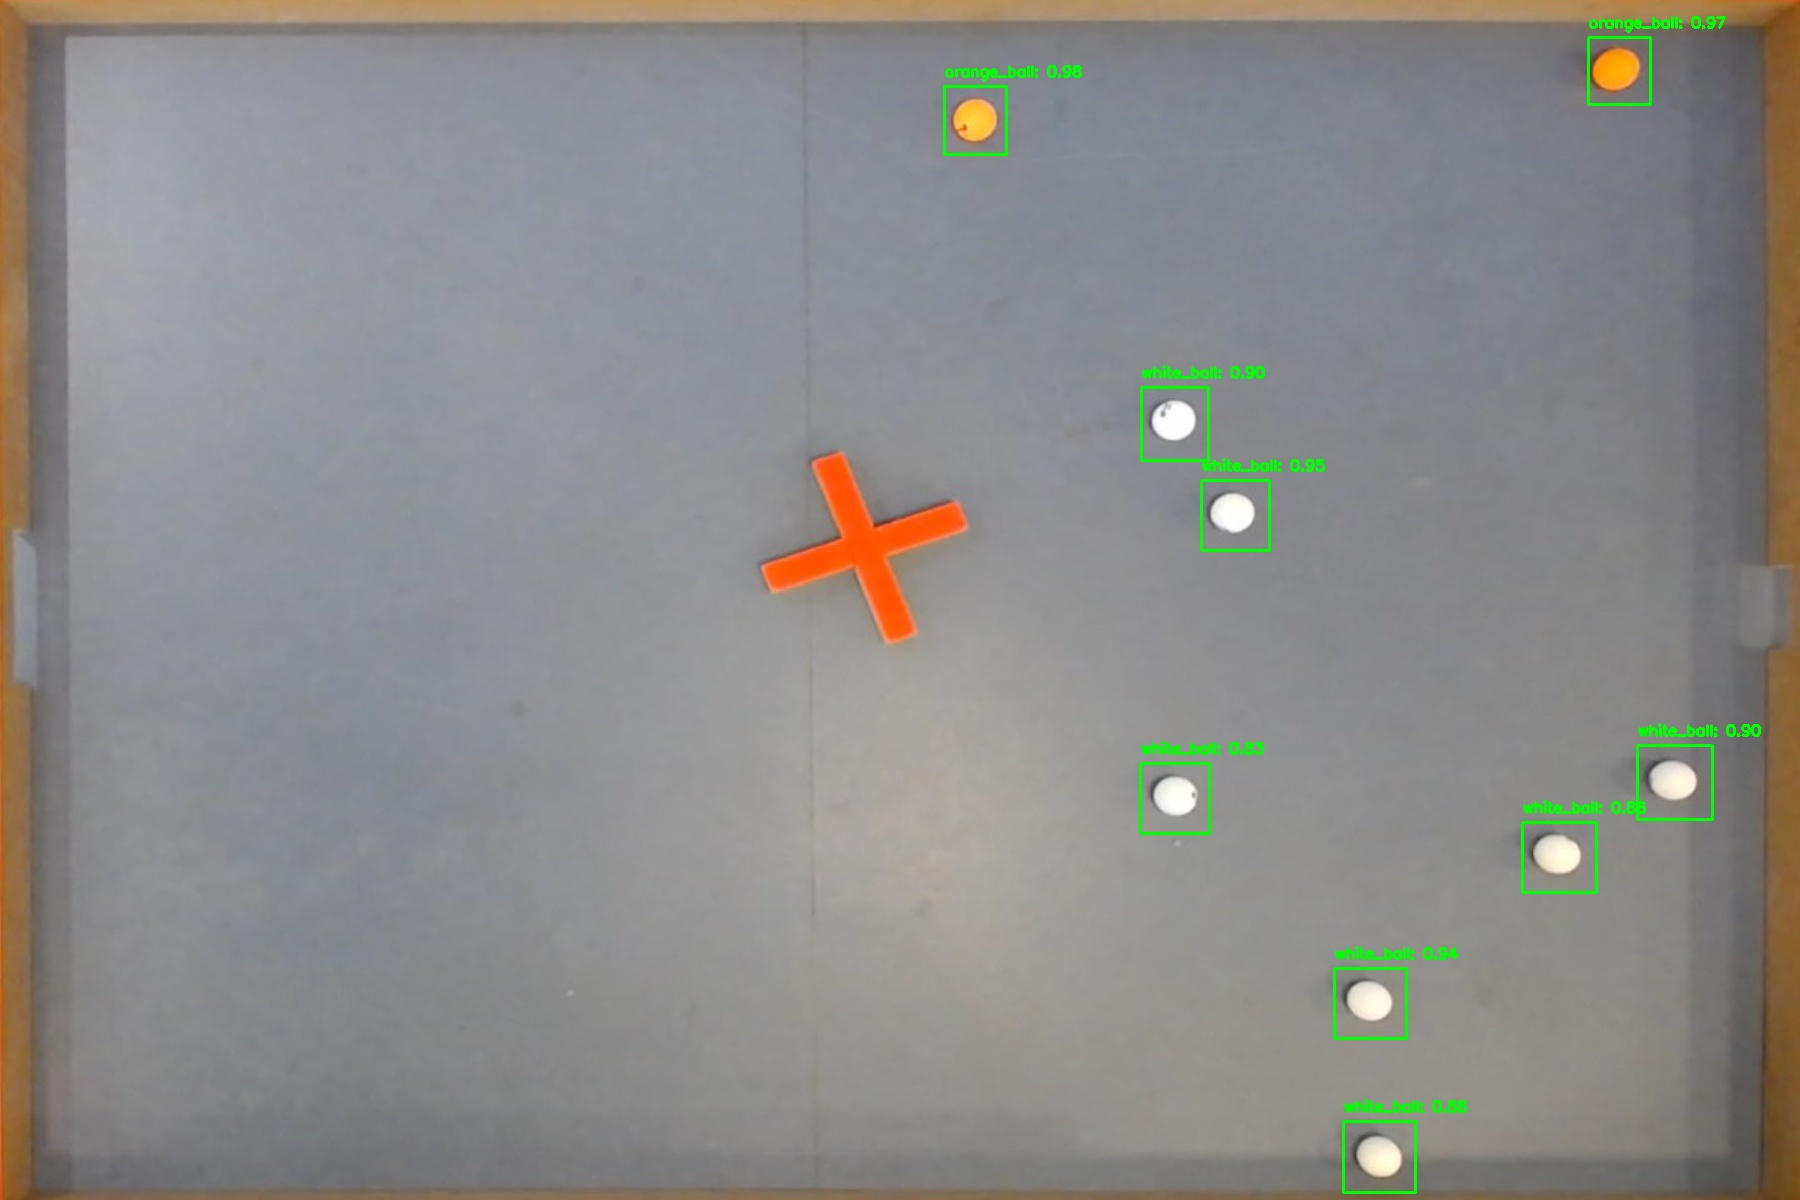
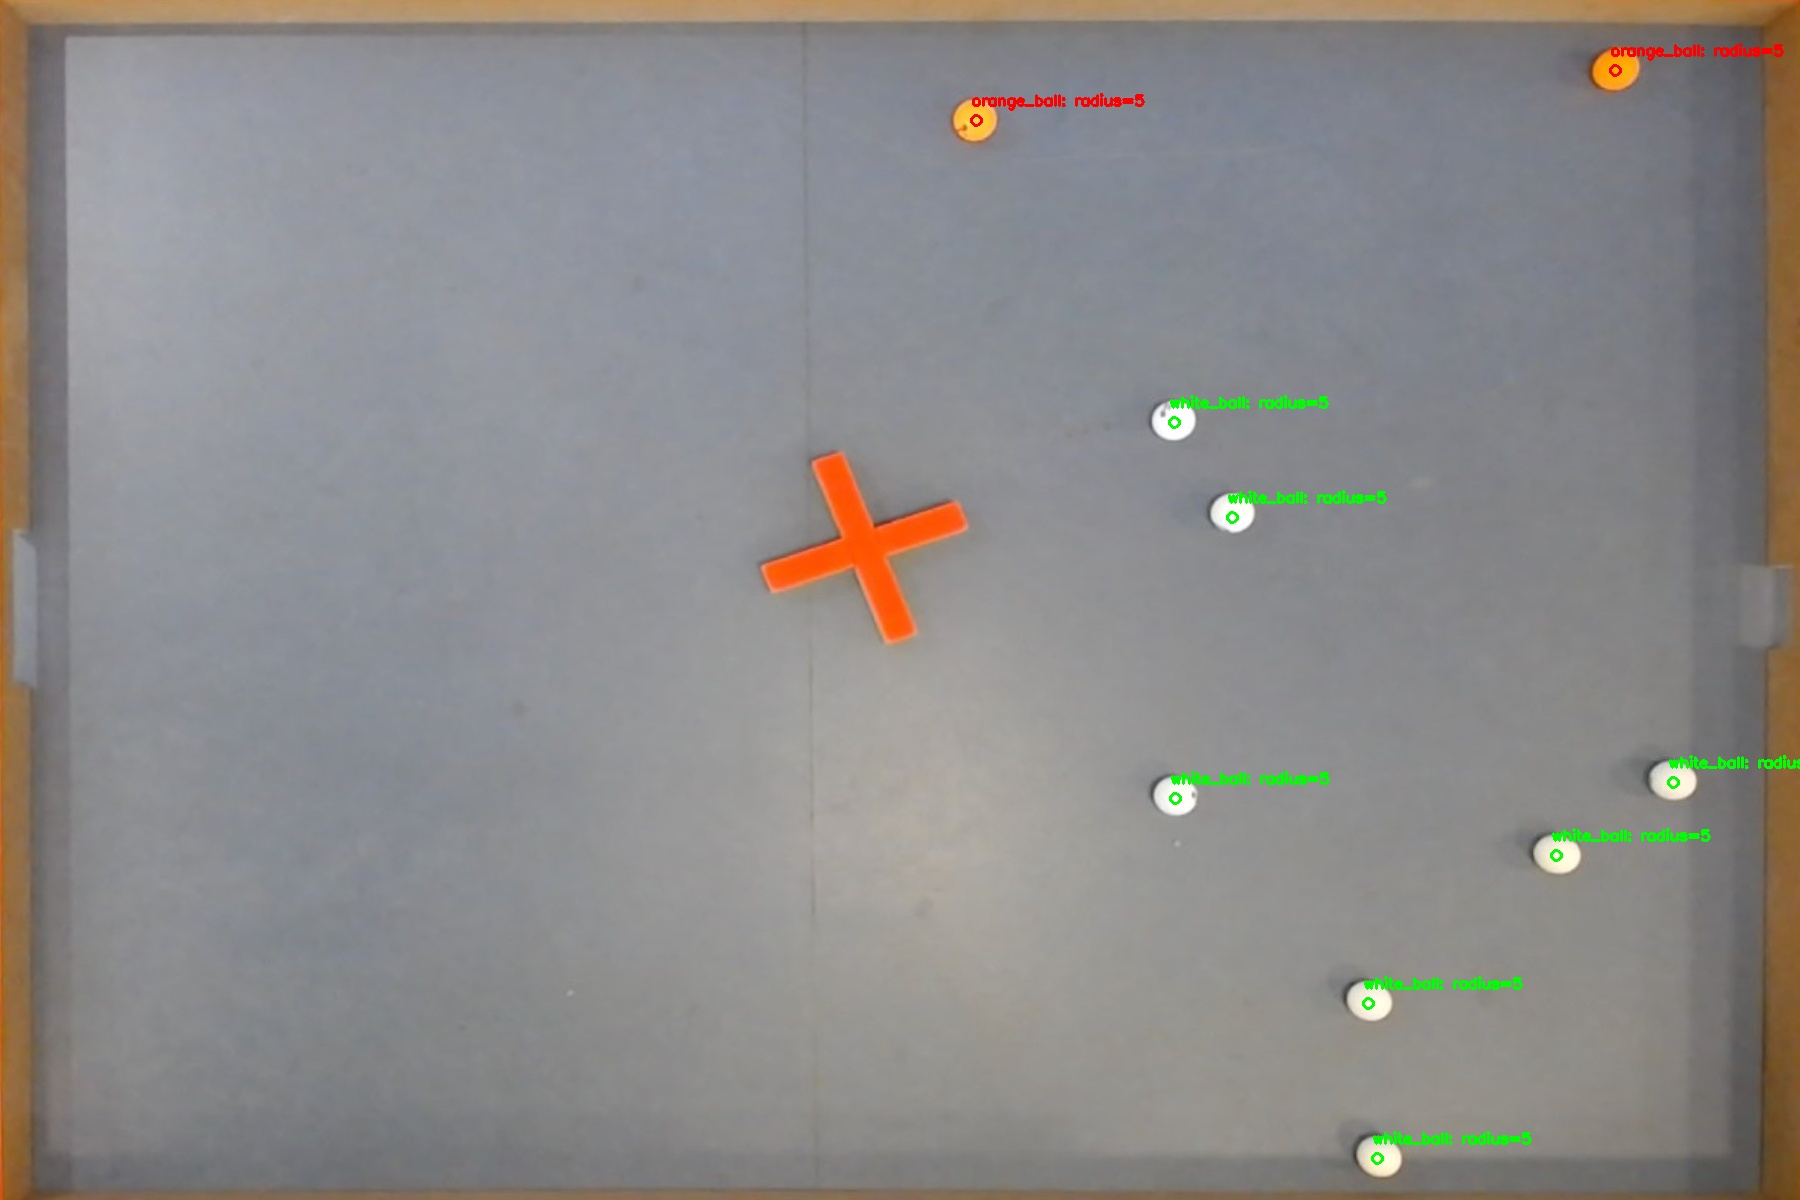
w

diff --git a/src/client/vision/AIBallDetection.py b/src/client/vision/AIBallDetection.py
@@ -3,6 +3,7 @@ import cv2
 import warnings
 from dotenv import load_dotenv
 import inference
+import numpy as np
 
 # Suppress specific warnings
 warnings.filterwarnings("ignore", message="Specified provider 'CUDAExecutionProvider'")
@@ -12,31 +13,24 @@ warnings.filterwarnings("ignore", message="Specified provider 'OpenVINOExecution
 load_dotenv()
 
 # Load the model once, so it doesn't reload every time the function is called
-model = inference.get_model("detect-balls/3")
+model = inference.get_model("detect-balls/5")
 
 def detect_balls_with_model(image, min_confidence=0.5):
-    # Convert the image to a format suitable for the model
-    temp_image_path = "temp_image.jpg"
-    cv2.imwrite(temp_image_path, image)
     
-    # Run inference on the image
-    results_list = model.infer(image=temp_image_path)
+    results_list = model.infer(image=image)
     
-    # List to store detected balls
-    detected_balls = []
+    # Lists to store detected balls
+    white_balls = []
+    orange_balls = []
 
     # Iterate over the list of results and collect detections
     for results in results_list:
         for prediction in results.predictions:
             if prediction.confidence >= min_confidence:
-                ball_data = {
-                    'x': prediction.x,
-                    'y': prediction.y,
-                    'width': prediction.width,
-                    'height': prediction.height,
-                    'confidence': prediction.confidence,
-                    'class_name': prediction.class_name,
-                }
-                detected_balls.append(ball_data)
+                ball_data = [int(prediction.x), int(prediction.y), 5]  # Set radius to 5
+                if prediction.class_name == 'white_ball':
+                    white_balls.append(ball_data)
+                elif prediction.class_name == 'orange_ball':
+                    orange_balls.append(ball_data)
     
-    return detected_balls
+    return np.array(white_balls, dtype=int), np.array(orange_balls, dtype=int)

diff --git a/src/client/vision/temp.py b/src/client/vision/temp.py
@@ -1,0 +1,44 @@
+import cv2
+import time
+
+from src.client.vision.AIBallDetection import detect_balls_with_model
+
+# Load the image
+image_path = "originalImages/PreWarpedCourse.jpg"
+image = cv2.imread(image_path)
+
+start_time = time.time()
+  
+# Detect balls
+white_balls, orange_balls = detect_balls_with_model(image)
+
+end_time = time.time()
+elapsed_time = end_time - start_time
+
+# Print the results
+print("White balls:", white_balls)
+print("Orange balls:", orange_balls)
+print(f"Time taken for ball detection: {elapsed_time:.2f} seconds")
+
+# Draw bounding boxes on the image
+for ball in white_balls:
+    x, y, r = ball
+    # Draw the circle
+    cv2.circle(image, (x, y), r, (0, 255, 0), 2)
+    # Put the label near the circle
+    label = f"white_ball: radius={r}"
+    cv2.putText(image, label, (x - r, y - r - 10), cv2.FONT_HERSHEY_SIMPLEX, 0.5, (0, 255, 0), 2)
+    
+for ball in orange_balls:
+    x, y, r = ball
+    # Draw the circle
+    cv2.circle(image, (x, y), r, (0, 0, 255), 2)
+    # Put the label near the circle
+    label = f"orange_ball: radius={r}"
+    cv2.putText(image, label, (x - r, y - r - 10), cv2.FONT_HERSHEY_SIMPLEX, 0.5, (0, 0, 255), 2)
+
+# Save or display the image
+cv2.imwrite("result.jpg", image)
+cv2.imshow("Result", image)
+cv2.waitKey(0)
+cv2.destroyAllWindows()
